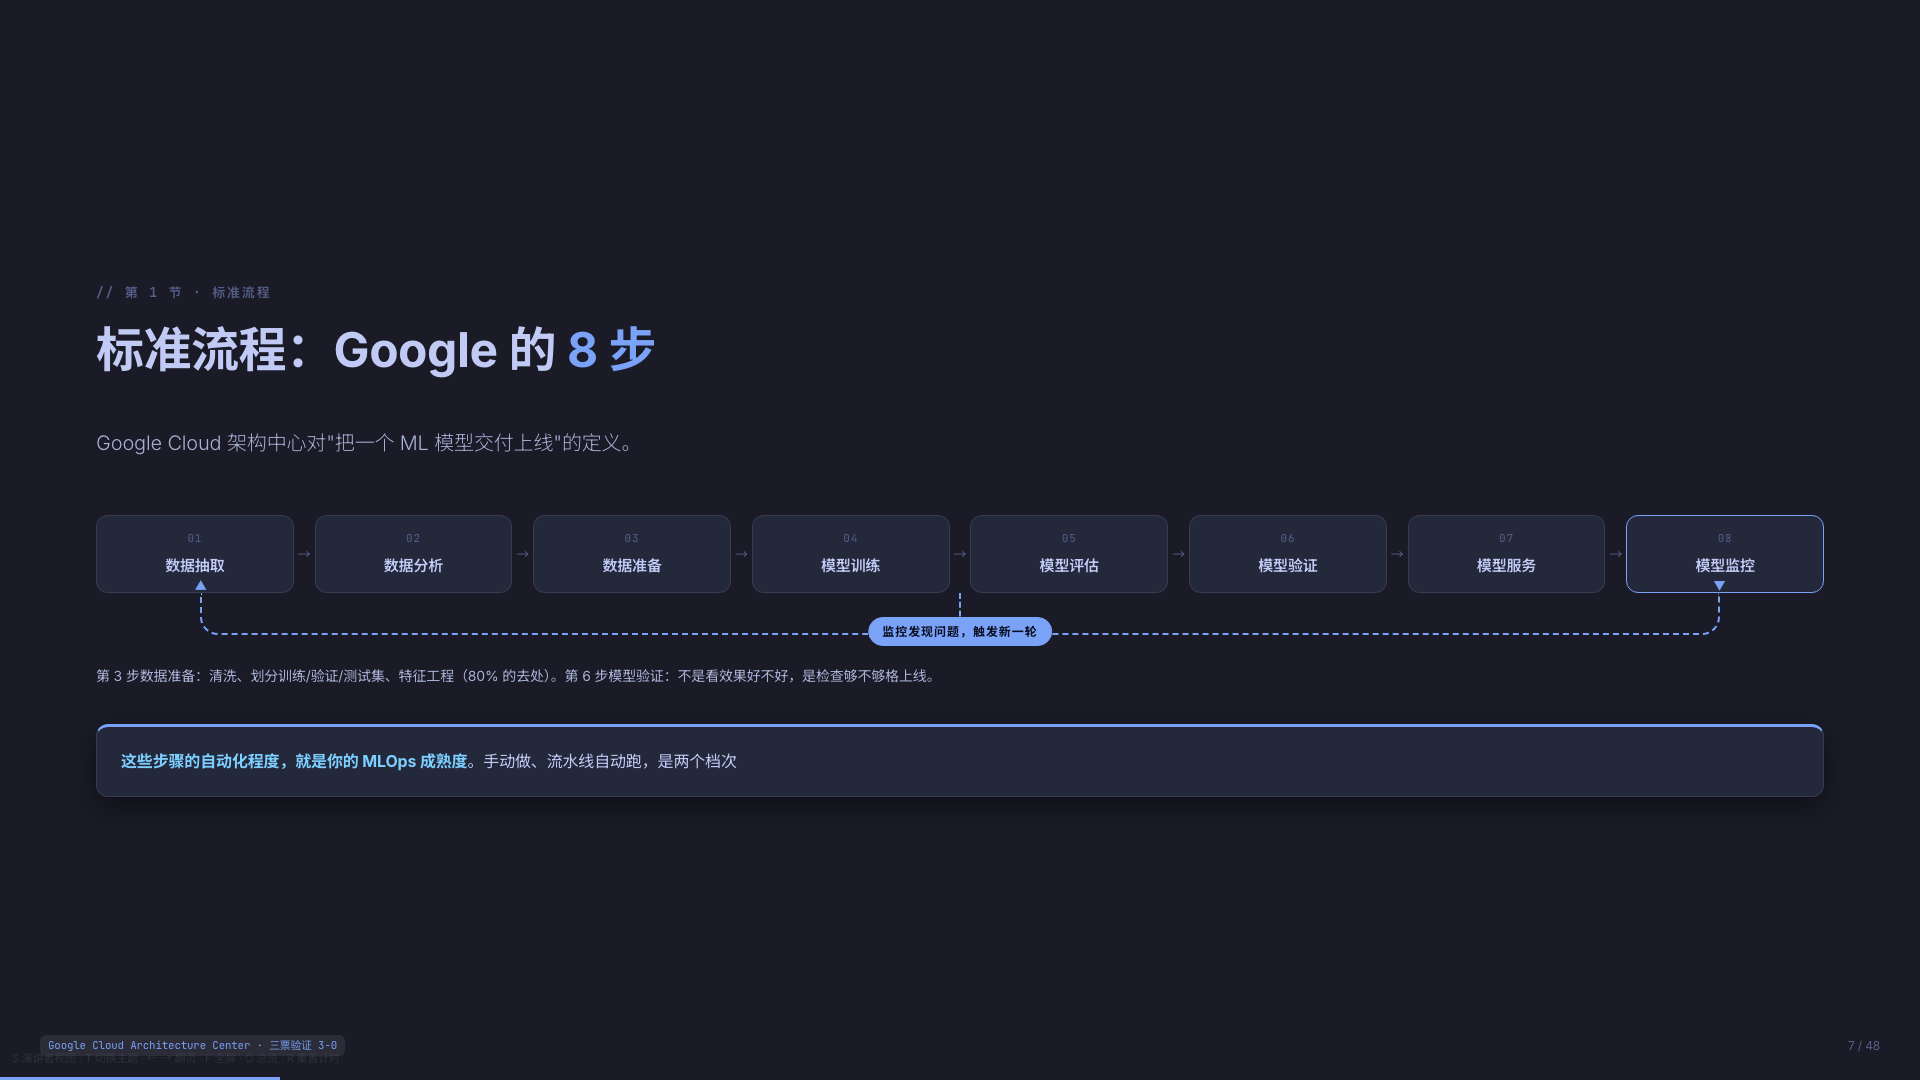
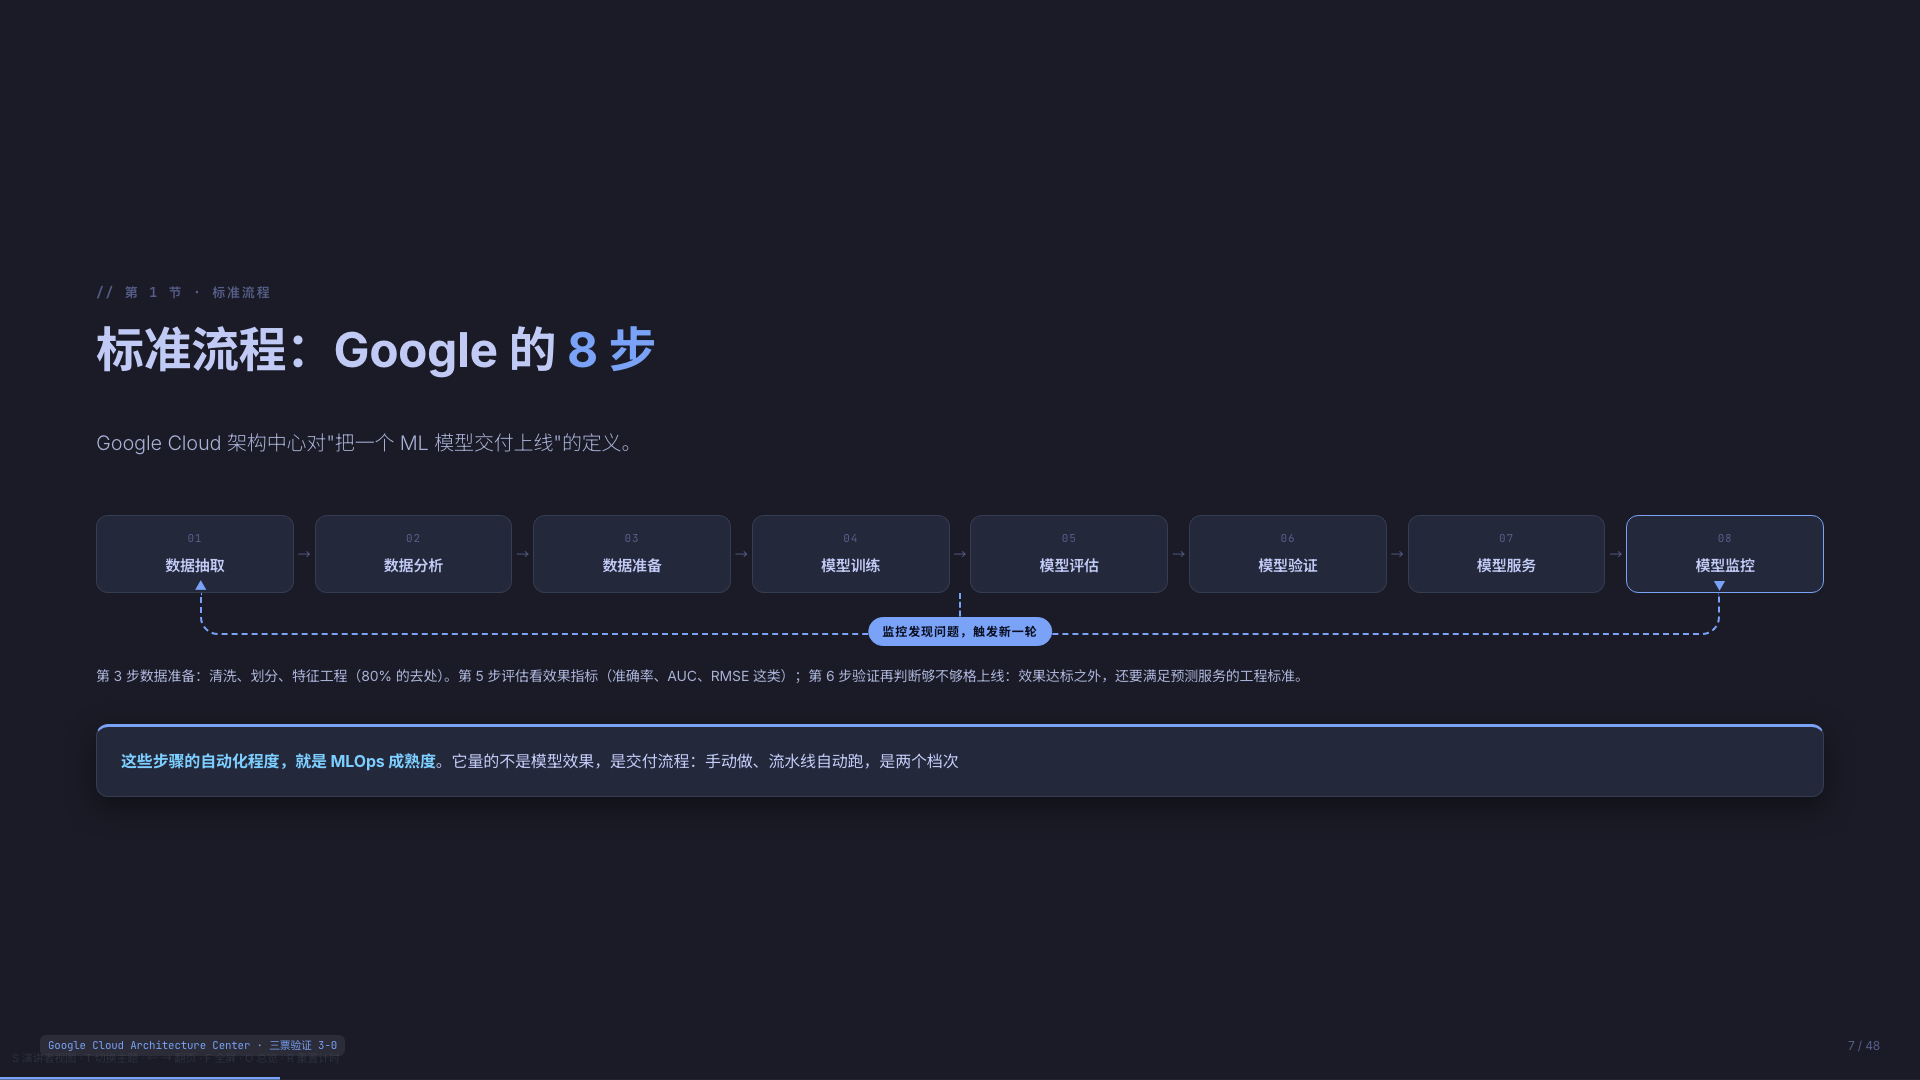
Refine slides S4/S7: drop forward refs, clarify effect vs maturity
- S4: remove "第 2 节细讲" forward reference; add MMLU/ARC explanation
  (57-subject knowledge benchmark / grade-school science reasoning)
- S7: drop "你的" from the maturity line; clarify it measures the
  delivery process, not model quality; fix step-5/6 wording so
  evaluation metrics are the effect gate and validation adds serving
  standards; add L0 "couple of deployments per year" fact to notes
- Re-render affected preview PNGs

Changed region(s): [[0.1562, 0.6111, 0.6875, 0.6417], [0.1562, 0.6722, 0.5, 0.7333]]

diff --git a/slides/index.html b/slides/index.html
@@ -129,7 +129,7 @@
     </div>
 
     <div class="card card-accent llm-echo" data-anim="fade-up">
-      <b>LLM 时代也一样</b>：HuggingFace 做 FineWeb 数据集，从 15T 原始网页里过滤出 1.3T 高质量文本，训练预算相同，MMLU 从 33 涨到 37，ARC 从 46 涨到 57。<span class="dim">数据质量比数量重要，第 2 节细讲</span>
+      <b>LLM 时代也一样</b>：HuggingFace 做 FineWeb 数据集，从 15T 原始网页里过滤出 1.3T 高质量文本，训练预算相同，MMLU 从 33 涨到 37，ARC 从 46 涨到 57。<span class="dim">数据质量比数量重要。MMLU、ARC 是两个公开的 LLM 能力基准：前者考 57 个学科的知识题，后者考小学科学推理题。</span>
     </div>
 
     <div class="deck-footer">
@@ -140,7 +140,7 @@
       <p>答案是 D，80% 在数据上。行业经验法则：数据准备占整个项目的大约 80%，行话叫 data munging。这话写在 CRISP-DM 官方介绍里。</p>
       <p>有人可能觉得 1999 年的资料太老了。KDnuggets 在 2002 到 2014 年间做过四次调查，CRISP-DM 每次都是使用率第一，这套框架用到现在。</p>
       <p>80% 花在哪？数据准备有五个任务：选择、清洗、构建、整合、格式化。官方原话，清洗往往是最耗时的任务。而建模通常是整个项目里最短的阶段，时间都花在模型外面了。</p>
-      <p>底下这条留给后面：2024 年 HuggingFace 做 FineWeb 数据集，15 万亿条原始网页过滤出 1.3 万亿高质量文本，同样的训练预算，MMLU 从 33 涨到 37，ARC 从 46 涨到 57。数据质量比数量重要，LLM 时代还是这个规律，第 2 节细讲。</p>
+      <p>底下这条留给后面：2024 年 HuggingFace 做 FineWeb 数据集，15 万亿条原始网页过滤出 1.3 万亿高质量文本，同样的训练预算，MMLU 从 33 涨到 37，ARC 从 46 涨到 57。有人会问这俩是什么：MMLU 是 57 个学科的多选知识题，ARC 是小学科学推理题，都是业界常用的公开考卷，专测模型的知识和推理。数据质量比数量重要，LLM 时代还是这个规律。</p>
       <p>所以今天从数据讲起。进第 1 节。</p>
     </aside>
   </section>
@@ -249,10 +249,10 @@
       </div>
     </div>
 
-    <p class="dim step-notes">第 3 步数据准备：清洗、划分训练/验证/测试集、特征工程（80% 的去处）。第 6 步模型验证：不是看效果好不好，是检查够不够格上线。</p>
+    <p class="dim step-notes">第 3 步数据准备：清洗、划分、特征工程（80% 的去处）。第 5 步评估看效果指标（准确率、AUC、RMSE 这类）；第 6 步验证再判断够不够格上线：效果达标之外，还要满足预测服务的工程标准。</p>
 
     <div class="card card-accent maturity-callout" data-anim="fade-up">
-      <b>这些步骤的自动化程度，就是你的 MLOps 成熟度</b>。手动做、流水线自动跑，是两个档次
+      <b>这些步骤的自动化程度，就是 MLOps 成熟度</b>。它量的不是模型效果，是交付流程：手动做、流水线自动跑，是两个档次
     </div>
 
     <div class="deck-footer">
@@ -261,9 +261,9 @@
     </div>
     <aside class="notes">
       <p>先看业界怎么定义标准流程。Google Cloud 架构中心给过一个八步的交付流程：数据抽取、数据分析、数据准备，然后训练、评估、验证，最后服务化和监控。这一页经过三票对抗验证，原文如此。</p>
-      <p>有两步多说一句。第 3 步数据准备，包括清洗、划分训练验证测试集、特征工程，就是刚才那个 80% 的去处。第 6 步模型验证，不是看模型效果好不好，是检查它够不够格上线，能不能达到预测服务的标准。</p>
+      <p>有几步多说一句。第 3 步数据准备，包括清洗、划分训练验证测试集、特征工程，就是刚才那个 80% 的去处。第 5 步评估看效果，准确率、AUC、RMSE 这些指标。第 6 步验证回答的是够不够格上线：效果达标只是必要条件，还要过预测服务的工程标准，比如延迟、稳定性这些。</p>
       <p>重点在第 8 步。Google 原文说，监控发现性能问题，会 invoke a new iteration，触发新的一轮迭代。流程从终点绕回起点，就是地图上那个反馈环，这是它第一次在标准里出现。</p>
-      <p>还有一句更要记住：<strong>这八步的自动化程度，就是你的 MLOps 成熟度</strong>。手动做、流水线自动跑，是两个档次。这句话先记住，这一节收尾的时候，拿它给自己团队打个分。</p>
+      <p>还有一句要记住：<strong>这八步的自动化程度，就是 MLOps 成熟度</strong>。注意它量的不是模型效果，是交付流程。效果决定这一次的模型能不能上线；自动化决定你能多快、多稳地产出下一个模型。Google 同一篇还提到，L0 的手动团队一年也就部署两三次新版本，效果再好，交付节奏也被流程锁死。这句话先记住，这一节收尾拿它给自己团队打个分。</p>
     </aside>
   </section>
 

diff --git a/docs/talk/slides-content.md b/docs/talk/slides-content.md
@@ -44,7 +44,7 @@
 - **80% 在数据**（巨型数字）：行业经验法则——数据准备约占项目 80%（data munging）
 - 数据准备五个任务：选择 → 清洗 → 构建 → 整合 → 格式化；官方原话：**清洗「往往是最耗时的任务」**
 - 建模，通常是最短的阶段
-- LLM 呼应条：FineWeb 15T 原始网页 → 过滤出 1.3T 高质量子集，**同等训练预算**：MMLU 33→37 · ARC 46→57（第 2 节展开）
+- LLM 呼应条：FineWeb 15T 原始网页 → 过滤出 1.3T 高质量子集，**同等训练预算**：MMLU 33→37 · ARC 46→57。附基准备注：MMLU 考 57 个学科的知识题、ARC 考小学科学推理题（不写前向页码引用）
 **讲稿备注**：出处为 CRISP-DM 官方介绍【单源：datascience-pm.com】；可信度补强：KDnuggets 2002/2004/2007/2014 四次调查 CRISP-DM 使用率均第一【单源，同页】。FineWeb 数字【已验证：arXiv 2406.17557】。补一句：这不是新现象——1999 年的方法论就总结出了这条法则，LLM 时代依然成立（FineWeb 即证）。
 
 ---
@@ -76,7 +76,7 @@
 1. 数据抽取　2. 数据分析　3. 数据准备（清洗/划分/特征）
 4. 模型训练　5. 模型评估　6. 模型验证
 7. 模型服务　8. 模型监控
-- 这些步骤的**自动化程度** = 你的 MLOps 成熟度（当场自洽：手动做、流水线自动跑，是两个档次。**不写页码前向引用**）
+- 这些步骤的**自动化程度** = MLOps 成熟度。澄清：它量的不是模型效果，是交付流程；效果够不够格上线由第 5 步评估指标 + 第 6 步验证（效果达标 + 预测服务工程标准）决定。**不写页码前向引用**
 **讲稿备注**：来源 Google Cloud Architecture Center【已验证】。强调第 8 步：监控发现问题会「invoke a new iteration」，流程从终点绕回起点，这是「闭环」的第一次出现。结尾提示观众记住"自动化程度=成熟度"这句话，本节收尾（S18）用它给团队打分——**S18 开场必须回扣 S7 这句话**，不能默认观众还记得。
 **配图**：8 步纵向流程图，第 8 步画回环箭头指向第 1 步。
 
